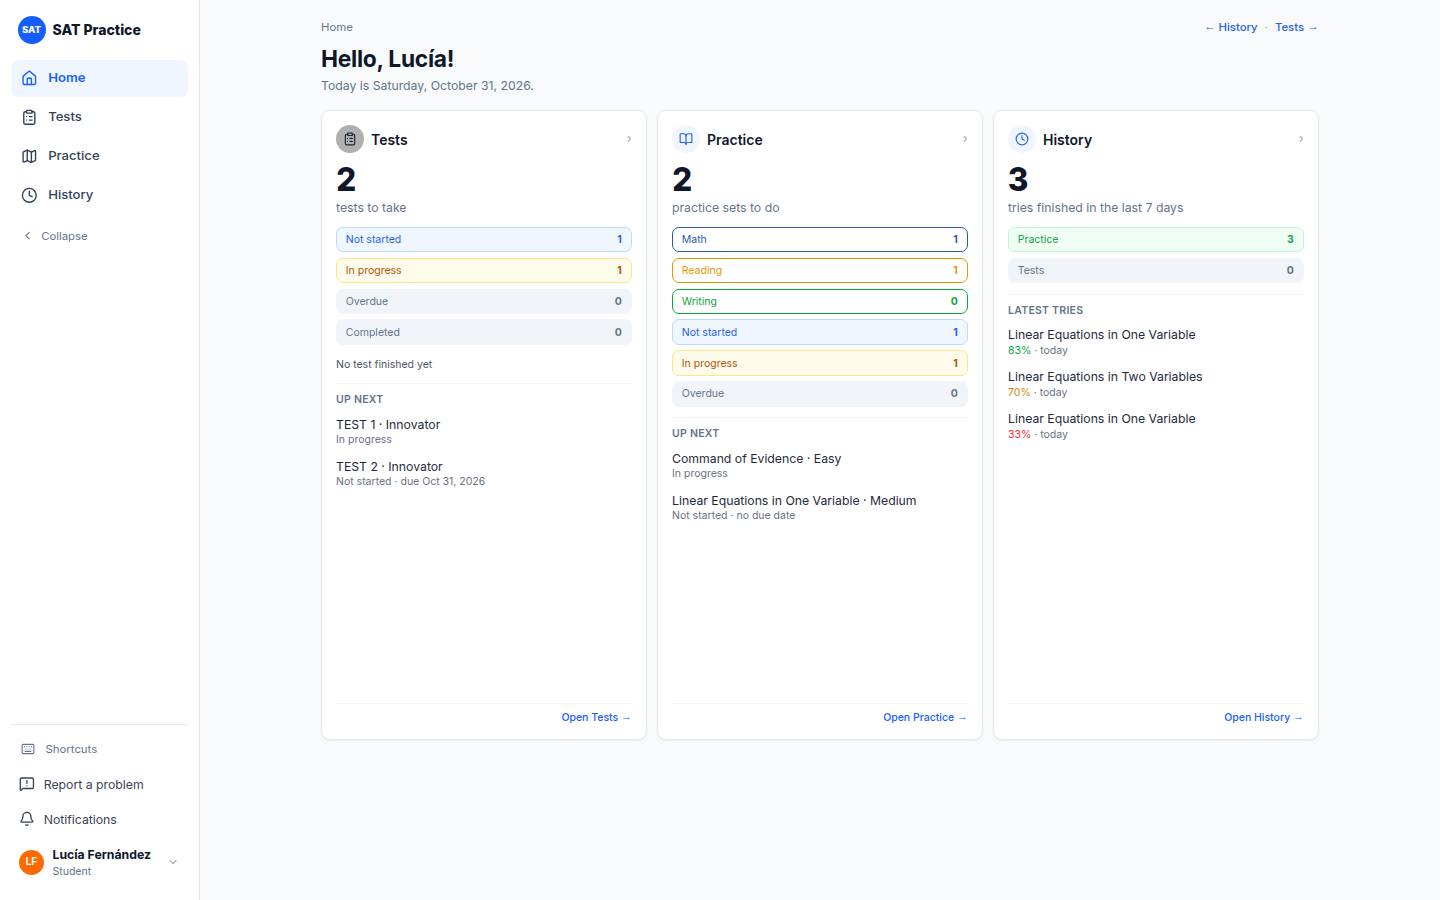
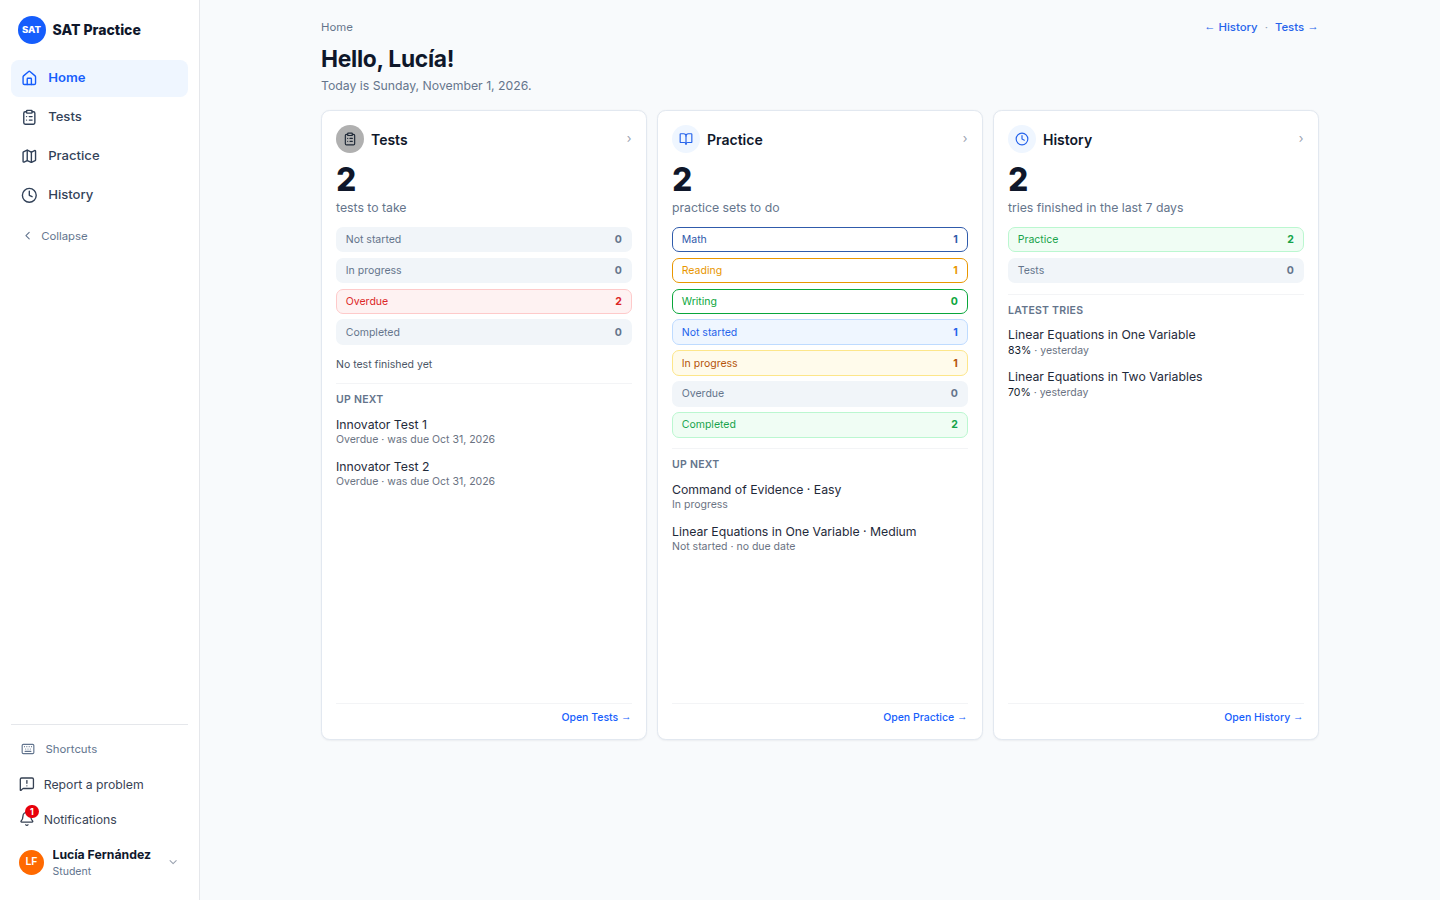
docs(manual): review with Soledad — Innovator Test N, Completed on retry, report Period, reference sheet
Text of the four manuals + 11 retaken screenshots (08-review-update.cjs, on a throwaway copy).

diff --git a/docs/manual/manual-profesor.es.md b/docs/manual/manual-profesor.es.md
@@ -40,7 +40,7 @@ Este manual explica cómo usar la plataforma como **profesor**: invitar alumnos,
 
 ## 2. Home
 
-Home resume tu trabajo en tarjetas: **Students** (activos esta semana, inactivos 5+ días, con Tests por hacer, invitaciones), **Tests** y **Practice** (sin empezar, en curso, vencidos, completados) e **History** (intentos de los últimos 7 días). Cada número abre la lista filtrada.
+Home resume tu trabajo en tarjetas: **Students** (activos esta semana, inactivos 5+ días, con Tests por hacer, invitaciones), **Tests** y **Practice** (sin empezar, en curso, vencidos, completados) e **History** (intentos de los últimos 7 días). Cada número abre la lista filtrada. Un set que el alumno ya terminó cuenta como **completado** aunque lo esté repitiendo.
 
 ![Home al empezar](img/teacher-home-empty.png)
 
@@ -132,7 +132,7 @@ La vista **Assign** es la misma para práctica y Tests. Se abre desde **Assign**
 
 ### Asignar un Test
 
-1. Pestaña **Tests**: cada **TEST N** se despliega con sus versiones (una por fuente activa; hoy, Innovator).
+1. Pestaña **Tests**: cada **TEST N** se despliega con sus versiones, una por fuente activa (hoy, Innovator). Cada versión lleva el nombre de su fuente, por ejemplo **Innovator Test 1**.
 2. Marca la versión, revisa la fecha y las opciones y pulsa **Assign test**.
 
 Un TEST N con todas sus versiones asignadas aparece fijo con el sello **ALREADY ASSIGNED**.
@@ -147,11 +147,11 @@ Desde la ficha del alumno, en sus sets activos, pulsa **Edit** (o abre una fila 
 
 ## 6. Pending e History
 
-**Pending** lista todo lo asignado y sin terminar de tus alumnos: primero lo vencido. Filtra por alumno, tipo, estado y período. Pulsa una fila para editar sus fechas.
+**Pending** lista todo lo asignado y sin terminar de tus alumnos: primero lo vencido. Filtra por alumno, tipo, estado y período (**All time**, **Last 30 days**, **Last 60 days**, **Last 90 days** o **Custom**, con fecha de inicio y fin). Pulsa una fila para editar sus fechas.
 
 ![Pending](img/teacher-pending.png)
 
-**History** lista todos los intentos (práctica y Tests), lo más reciente primero. Filtra por alumno, tipo, habilidad, dificultad, estado (**Completed**, **In progress**, **Not counted**, **Any**) y período. La práctica muestra el % de aciertos; los Tests, los puntajes SAT. Pulsa una fila para abrir el intento.
+**History** lista todos los intentos (práctica y Tests), lo más reciente primero. Filtra por alumno, tipo, habilidad, dificultad, estado (**Completed**, **In progress**, **Not counted**, **Any**) y período (**All time**, **Last 30 days**, **Last 60 days**, **Last 90 days** o **Custom**, con fecha de inicio y fin). La práctica muestra el % de aciertos; los Tests, los puntajes SAT. Pulsa una fila para abrir el intento.
 
 ![History](img/teacher-history.png)
 
@@ -180,8 +180,9 @@ El intento queda en el historial tachado como **Not counted** y no cuenta en pun
 ### Informe PDF
 
 1. En la ficha del alumno pulsa **Generate Report**.
-2. Marca las áreas (**Math**, **Reading**, **Writing**, **Tests**) y revisa la vista previa.
-3. Pulsa **Download PDF**, o en **Email to parents** marca a los padres y pulsa **Send PDF**.
+2. Elige el **Period**: **All time** (todo), **Last 30 days**, **Last 60 days**, **Last 90 days** o **Custom** (fecha de inicio y fin). El PDF incluye solo los intentos entregados en ese período; lo pendiente aparece siempre. El período queda impreso en la cabecera del PDF.
+3. Marca las áreas (**Math**, **Reading**, **Writing**, **Tests**) y revisa la vista previa.
+4. Pulsa **Download PDF**, o en **Email to parents** marca a los padres y pulsa **Send PDF**.
 
 ![Informe PDF](img/teacher-report-dialog.png)
 
@@ -199,7 +200,7 @@ El intento queda en el historial tachado como **Not counted** y no cuenta en pun
 
 ## 9. Tests
 
-**Tests** agrupa los SAT completos por número (**TEST N**) con una versión por fuente. Aparecen todos los números, del TEST 1 al más alto: si ninguna fuente tiene un número, se ve como **TEST N —** (en la imagen, **TEST 9**). Cada Test tiene 4 módulos (R&W 1 y 2, Math 1 y 2). **How scores work** explica cómo se calculan los puntajes.
+**Tests** agrupa los SAT completos por número (**TEST N**) con una versión por fuente. Junto a cada TEST N se ven, como etiquetas, las fuentes que lo tienen; cada versión se llama por su fuente (**Innovator Test 1**). Aparecen todos los números, del TEST 1 al más alto: si ninguna fuente tiene un número, se ve como **TEST N —** (en la imagen, **TEST 9**). Cada Test tiene 4 módulos (R&W 1 y 2, Math 1 y 2). **How scores work** explica cómo se calculan los puntajes.
 
 ![Tests](img/teacher-tests.png)
 
@@ -288,7 +289,7 @@ En **Practice** y **Tests** el profesor maestro ve **Import with AI** mientras q
 Revisa el correo y la carpeta de spam. Puedes copiar el **Student activation link** y enviárselo. Si pasaron 7 días, invítalo de nuevo.
 
 **¿Puedo asignar dos veces el mismo set?**
-No hace falta: el alumno puede repetirlo cuando quiera con **Try Again**. Para cambiar fechas usa **Edit**.
+No hace falta: el alumno puede repetirlo cuando quiera con **Try Again**. El set sigue como **Completed** mientras lo repite (verás **Retry in progress**) y nunca pasa a vencido. Para cambiar fechas usa **Edit**.
 
 **¿Por qué no veo a algunos alumnos?**
 Cada profesor ve solo a los alumnos que invitó.

diff --git a/docs/manual/teacher-manual.en.md b/docs/manual/teacher-manual.en.md
@@ -40,7 +40,7 @@ This manual explains how to use the platform as a **teacher**: invite students, 
 
 ## 2. Home
 
-Home sums up your work in cards: **Students** (active this week, inactive 5+ days, with Tests to take, invitations), **Tests** and **Practice** (not started, in progress, overdue, completed) and **History** (tries in the last 7 days). Every number opens the filtered list.
+Home sums up your work in cards: **Students** (active this week, inactive 5+ days, with Tests to take, invitations), **Tests** and **Practice** (not started, in progress, overdue, completed) and **History** (tries in the last 7 days). Every number opens the filtered list. A set the student already finished counts as **completed** even while they repeat it.
 
 ![Home at the start](img/teacher-home-empty.png)
 
@@ -132,7 +132,7 @@ The **Assign** view is the same for practice and Tests. Open it from **Assign** 
 
 ### Assigning a Test
 
-1. **Tests** tab: each **TEST N** expands into its versions (one per active source; today, Innovator).
+1. **Tests** tab: each **TEST N** expands into its versions, one per active source (today, Innovator). Each version is named after its source, e.g. **Innovator Test 1**.
 2. Tick the version, check the date and options and click **Assign test**.
 
 A TEST N with every version assigned shows as a fixed row with the **ALREADY ASSIGNED** stamp.
@@ -147,11 +147,11 @@ From the student's page, in their active sets, click **Edit** (or open a row in 
 
 ## 6. Pending and History
 
-**Pending** lists everything assigned to your students and not finished yet: overdue first. Filter by student, type, status and period. Click a row to edit its dates.
+**Pending** lists everything assigned to your students and not finished yet: overdue first. Filter by student, type, status and period (**All time**, **Last 30 days**, **Last 60 days**, **Last 90 days** or **Custom**, with a start and end date). Click a row to edit its dates.
 
 ![Pending](img/teacher-pending.png)
 
-**History** lists every try (practice and Tests), newest first. Filter by student, type, skill, difficulty, status (**Completed**, **In progress**, **Not counted**, **Any**) and period. Practice shows the % correct; Tests show SAT scores. Click a row to open the try.
+**History** lists every try (practice and Tests), newest first. Filter by student, type, skill, difficulty, status (**Completed**, **In progress**, **Not counted**, **Any**) and period (**All time**, **Last 30 days**, **Last 60 days**, **Last 90 days** or **Custom**, with a start and end date). Practice shows the % correct; Tests show SAT scores. Click a row to open the try.
 
 ![History](img/teacher-history.png)
 
@@ -180,8 +180,9 @@ The try stays in the history crossed out as **Not counted** and doesn't count in
 ### PDF report
 
 1. On the student's page click **Generate Report**.
-2. Tick the areas (**Math**, **Reading**, **Writing**, **Tests**) and check the preview.
-3. Click **Download PDF**, or under **Email to parents** tick the parents and click **Send PDF**.
+2. Choose the **Period**: **All time**, **Last 30 days**, **Last 60 days**, **Last 90 days** or **Custom** (start and end date). The PDF includes only the tries submitted in that period; pending work always shows. The period is printed at the top of the PDF.
+3. Tick the areas (**Math**, **Reading**, **Writing**, **Tests**) and check the preview.
+4. Click **Download PDF**, or under **Email to parents** tick the parents and click **Send PDF**.
 
 ![PDF report](img/teacher-report-dialog.png)
 
@@ -199,7 +200,7 @@ The try stays in the history crossed out as **Not counted** and doesn't count in
 
 ## 9. Tests
 
-**Tests** groups the full SATs by number (**TEST N**) with one version per source. Every number from TEST 1 to the highest is listed: a number no source has shows as **TEST N —** (in the picture, **TEST 9**). Each Test has 4 modules (R&W 1 and 2, Math 1 and 2). **How scores work** explains how scores are calculated.
+**Tests** groups the full SATs by number (**TEST N**) with one version per source. Next to each TEST N, tags show the sources that have it; each version is named after its source (**Innovator Test 1**). Every number from TEST 1 to the highest is listed: a number no source has shows as **TEST N —** (in the picture, **TEST 9**). Each Test has 4 modules (R&W 1 and 2, Math 1 and 2). **How scores work** explains how scores are calculated.
 
 ![Tests](img/teacher-tests.png)
 
@@ -288,7 +289,7 @@ In **Practice** and **Tests** the master teacher sees **Import with AI** while s
 Check their email and spam folder. You can copy the **Student activation link** and send it to them. If 7 days have passed, invite them again.
 
 **Can I assign the same set twice?**
-There's no need: the student can repeat it any time with **Try Again**. To change dates use **Edit**.
+There's no need: the student can repeat it any time with **Try Again**. The set stays **Completed** while they repeat it (you'll see **Retry in progress**) and never turns overdue. To change dates use **Edit**.
 
 **Why can't I see some students?**
 Each teacher only sees the students they invited.

diff --git a/docs/manual/manual-alumno.es.md b/docs/manual/manual-alumno.es.md
@@ -56,7 +56,7 @@ El menú de la izquierda tiene **Home**, **Tests**, **Practice** e **History**. 
 Home resume todo en tres tarjetas:
 
 - **Tests**: cuántos Tests tienes por rendir y su estado (**Not started**, **In progress**, **Overdue**, **Completed**) y la lista **Up next**.
-- **Practice**: los sets de práctica por hacer, por área (**Math**, **Reading**, **Writing**) y por estado.
+- **Practice**: los sets de práctica por hacer, por área (**Math**, **Reading**, **Writing**) y por estado, incluidos los **Completed**.
 - **History**: lo que terminaste en los últimos 7 días y tus intentos más recientes con su porcentaje.
 
 Cada número es un enlace que abre la lista ya filtrada.
@@ -122,7 +122,7 @@ Si tu profesor eligió mostrar la respuesta después de cada pregunta, aparece e
 
 - **Highlight**: selecciona texto del pasaje o la pregunta y pulsa Highlight para resaltarlo.
 - **Eliminate**: activa el modo para tachar opciones que descartas.
-- **Reference** (solo Math): abre la hoja de fórmulas.
+- **Reference** (solo Math): abre la hoja de fórmulas oficial (con **Open full size** la ves en grande).
 - **Calculator** (solo Math, si el administrador la activó).
 - **Mark for review**: marca la pregunta para volver a ella.
 - **Personal note**: una nota solo para ti.
@@ -176,13 +176,13 @@ Al enviar ves tus resultados:
 
 > Si tu profesor ocultó las respuestas de un set, verás el aviso correspondiente en lugar de las correctas.
 
-**Puedes repetir un set las veces que quieras** con **Try Again**: cada intento queda guardado y verás tu progreso.
+**Puedes repetir un set las veces que quieras** con **Try Again**: cada intento queda guardado y verás tu progreso. Mientras lo repites, el set sigue como **Completed** con la marca **Retry in progress**; pulsa **Continue** para seguir ese intento.
 
 > Cuando apruebas un nivel, la plataforma puede **abrirte automáticamente el siguiente** (por ejemplo, Medium después de Easy).
 
 ## 7. Tests: el SAT completo
 
-**Tests** reúne los SAT completos que te asignó tu profesor. Cada Test tiene **4 módulos**: **Reading & Writing 1 y 2** y **Math 1 y 2**. Las pestañas son **To take**, **Completed** y **All**.
+**Tests** reúne los SAT completos que te asignó tu profesor. Cada Test tiene **4 módulos**: **Reading & Writing 1 y 2** y **Math 1 y 2**. Las pestañas son **To take**, **Completed** y **All**. Cada Test lleva el nombre de su fuente, por ejemplo **Innovator Test 1**.
 
 ![Lista de Tests](img/student-tests.png)
 
@@ -219,13 +219,13 @@ Cuando termines un Test, puedes rendirlo de nuevo con **Retake**.
 
 ## 8. Pending e History
 
-**Pending** lista todo lo que tienes pendiente, primero lo vencido y luego por fecha límite. Puedes filtrar por tipo, estado y período.
+**Pending** lista todo lo que tienes pendiente, primero lo vencido y luego por fecha límite. Puedes filtrar por tipo, estado y período (**All time**, **Last 30 days**, **Last 60 days**, **Last 90 days** o **Custom**, con fecha de inicio y fin).
 
 ![Pending](img/student-pending.png)
 
 ![Pending con un set vencido](img/student-pending-overdue.png)
 
-**History** muestra todo lo que hiciste, lo más reciente primero, con tu puntaje y el cambio respecto al intento anterior. Puedes filtrar por tipo, habilidad, dificultad, estado y período. Pulsa una fila para ver ese intento.
+**History** muestra todo lo que hiciste, lo más reciente primero, con tu puntaje y el cambio respecto al intento anterior. Puedes filtrar por tipo, habilidad, dificultad, estado y período (**All time**, **Last 30 days**, **Last 60 days**, **Last 90 days** o **Custom**, con fecha de inicio y fin). Pulsa una fila para ver ese intento.
 
 ![History](img/student-history.png)
 

diff --git a/docs/manual/student-manual.en.md b/docs/manual/student-manual.en.md
@@ -56,7 +56,7 @@ The left menu has **Home**, **Tests**, **Practice** and **History**. At the bott
 Home sums everything up in three cards:
 
 - **Tests**: how many Tests you have to take and their status (**Not started**, **In progress**, **Overdue**, **Completed**), plus the **Up next** list.
-- **Practice**: practice sets to do, by area (**Math**, **Reading**, **Writing**) and by status.
+- **Practice**: practice sets to do, by area (**Math**, **Reading**, **Writing**) and by status, including **Completed**.
 - **History**: what you finished in the last 7 days and your latest tries with their percentage.
 
 Every number is a link that opens the list already filtered.
@@ -122,7 +122,7 @@ If your teacher chose to show the answer after each question, a **Check** button
 
 - **Highlight**: select text in the passage or question and click Highlight.
 - **Eliminate**: turns on a mode to cross out choices you rule out.
-- **Reference** (Math only): opens the formula sheet.
+- **Reference** (Math only): opens the official formula sheet (**Open full size** shows it larger).
 - **Calculator** (Math only, when the administrator enabled it).
 - **Mark for review**: flags the question so you can come back.
 - **Personal note**: a note just for you.
@@ -176,13 +176,13 @@ After submitting you see your results:
 
 > If your teacher hid the answers for a set, you'll see a notice instead of the right answers.
 
-**You can repeat a set as often as you like** with **Try Again**: every try is kept and you can follow your progress.
+**You can repeat a set as often as you like** with **Try Again**: every try is kept and you can follow your progress. While you repeat it, the set stays **Completed** with the **Retry in progress** mark; click **Continue** to go on with that try.
 
 > When you pass a level, the platform may **open the next one for you automatically** (for example Medium after Easy).
 
 ## 7. Tests: the full SAT
 
-**Tests** holds the full SATs your teacher assigned. Each Test has **4 modules**: **Reading & Writing 1 and 2** and **Math 1 and 2**. The tabs are **To take**, **Completed** and **All**.
+**Tests** holds the full SATs your teacher assigned. Each Test has **4 modules**: **Reading & Writing 1 and 2** and **Math 1 and 2**. The tabs are **To take**, **Completed** and **All**. Each Test is named after its source, e.g. **Innovator Test 1**.
 
 ![Tests list](img/student-tests.png)
 
@@ -219,13 +219,13 @@ When you finish a Test you can take it again with **Retake**.
 
 ## 8. Pending and History
 
-**Pending** lists everything you still have to do, overdue first and then by due date. Filter by type, status and period.
+**Pending** lists everything you still have to do, overdue first and then by due date. Filter by type, status and period (**All time**, **Last 30 days**, **Last 60 days**, **Last 90 days** or **Custom**, with a start and end date).
 
 ![Pending](img/student-pending.png)
 
 ![Pending with an overdue set](img/student-pending-overdue.png)
 
-**History** shows everything you did, newest first, with your score and the change from the previous try. Filter by type, skill, difficulty, status and period. Click a row to open that try.
+**History** shows everything you did, newest first, with your score and the change from the previous try. Filter by type, skill, difficulty, status and period (**All time**, **Last 30 days**, **Last 60 days**, **Last 90 days** or **Custom**, with a start and end date). Click a row to open that try.
 
 ![History](img/student-history.png)
 

diff --git a/docs/manual/_tools/README.md b/docs/manual/_tools/README.md
@@ -39,6 +39,11 @@ MANUAL_DB=$MANUAL_WORK/man-shots.db node docs/manual/_tools/07-import-steps.cjs 
 # then stop both, delete man-shots.db and start them again without MANUAL_DB
 ```
 
+`08-review-update.cjs` retakes the screenshots changed by the review with Soledad (tests named
+"Innovator Test N", Completed chip, report Period, reference sheet). It also runs on a throwaway copy
+with the tests renamed as production (`prisma/data-patches/202611011800_tests_named_by_source.sql`
+fails on `man.db` by design, it has no TEST 9: run its UPDATEs on the copy).
+
 Each script depends on the data the previous ones created. **To start over, stop the server, then run `00-setup.cjs` again.** Never replace `man.db` while the server has it open, or the database can be corrupted.
 
 ## Notes
